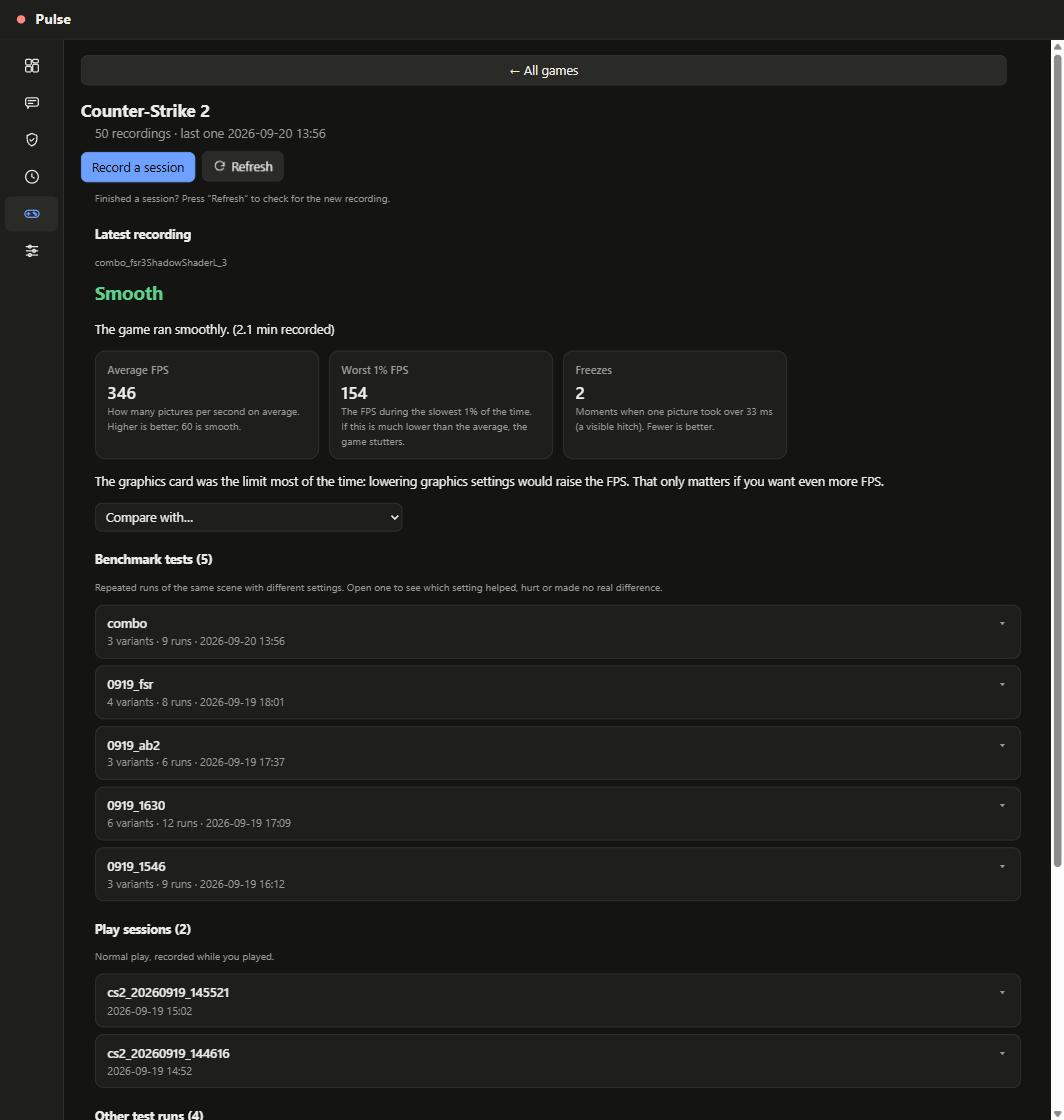
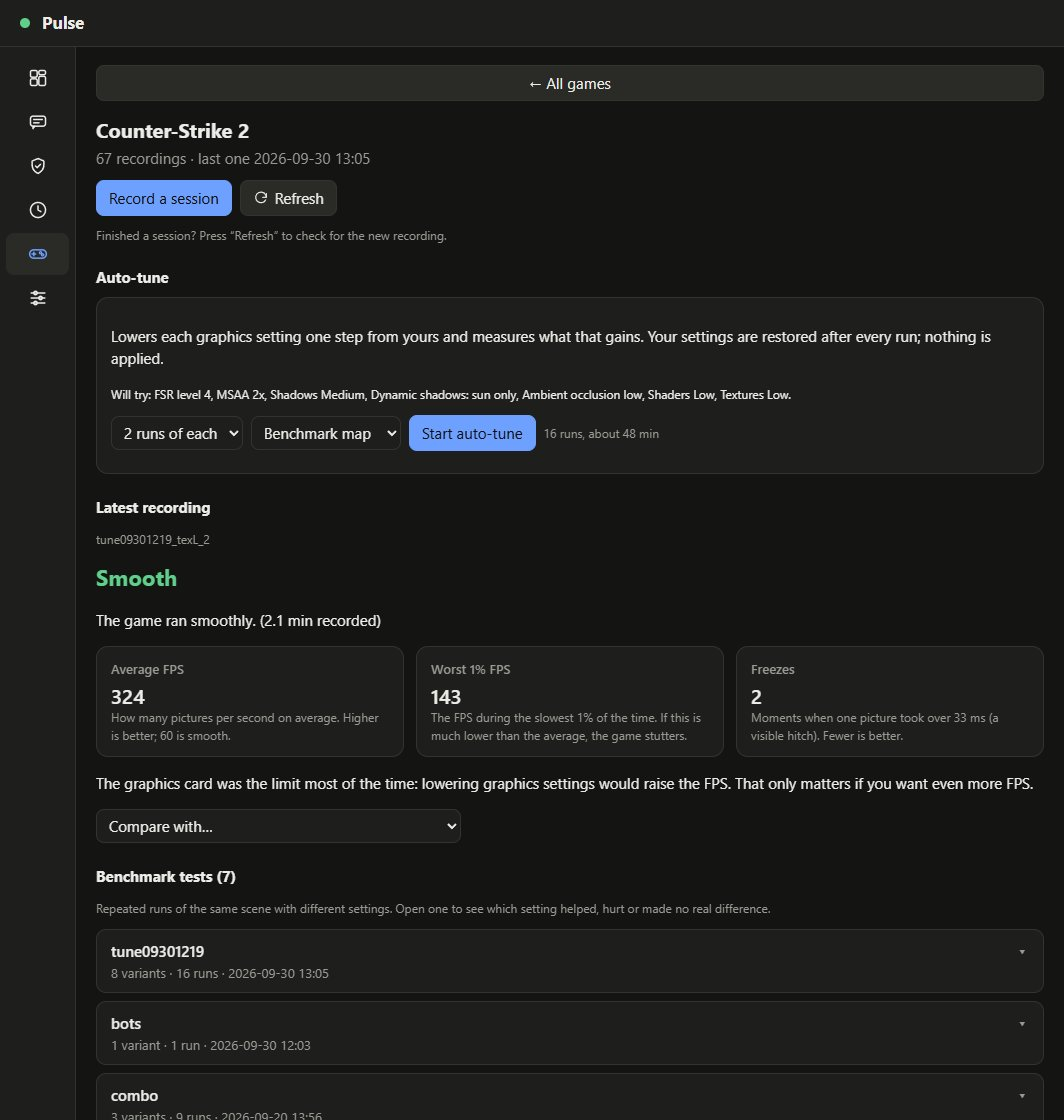
README: retake the CS2 page screenshot with the auto-tune block

diff --git a/README.md b/README.md
@@ -22,7 +22,7 @@ Docs: [Architecture](ARCHITECTURE.md) · [Contributing](CONTRIBUTING.md) · [Cha
 </p>
 <p>
   <img src="docs/screenshots/charts.jpg" width="49%" alt="Report charts: GPU temperature and CPU load over time">
-  <img src="docs/screenshots/game-benchmark.jpg" width="49%" alt="Game benchmark comparison: FPS, 1% low, hitches">
+  <img src="docs/screenshots/game-benchmark.jpg" width="49%" alt="CS2 page: auto-tune, latest recording (FPS, worst 1%, freezes), benchmark tests">
 </p>
 
 ## Status
